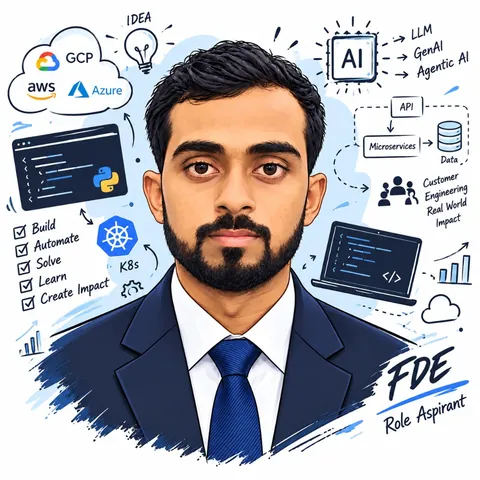
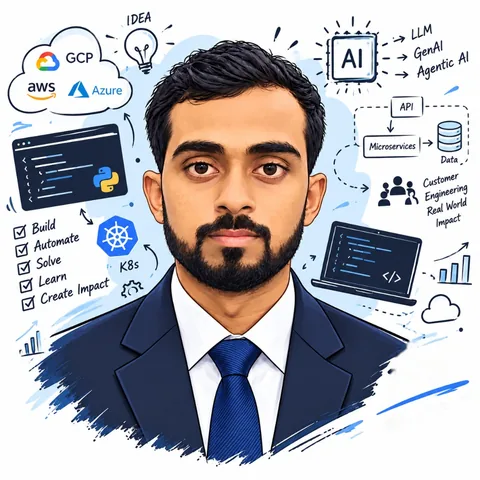
Remove 'FDE Role Aspirant' lettering from hero portrait and OG card
The phrase was baked into the illustration; inpainted only the lettering,
regenerated the 480/720 WebP/JPG variants, patched the OG card, and
cache-busted the image URLs with ?v=2.

Changed region(s): [[0.7812, 0.6875, 0.9688, 0.9062]]

diff --git a/index.html b/index.html
@@ -21,7 +21,7 @@
 <meta property="og:url" content="https://iarsingh.github.io/">
 <meta property="og:title" content="Akhilesh Ranjan Singh | Cloud &amp; Platform Engineer | FDE">
 <meta property="og:description" content="Cloud, Platform &amp; DevSecOps Engineer with 7+ years across GCP, Azure, Kubernetes, Terraform, CI/CD and SRE, exploring Forward Deployed Engineering and AI Platforms.">
-<meta property="og:image" content="https://iarsingh.github.io/og-card.jpg">
+<meta property="og:image" content="https://iarsingh.github.io/og-card.jpg?v=2">
 <meta property="og:image:width" content="1200">
 <meta property="og:image:height" content="630">
 <meta property="og:image:alt" content="Akhilesh Ranjan Singh — Cloud &amp; Platform Engineer exploring Forward Deployed Engineering &amp; AI Platforms">
@@ -30,7 +30,7 @@
 <meta name="twitter:card" content="summary_large_image">
 <meta name="twitter:title" content="Akhilesh Ranjan Singh | Cloud &amp; Platform Engineer | FDE">
 <meta name="twitter:description" content="Cloud, Platform &amp; DevSecOps Engineer with 7+ years across GCP, Azure, Kubernetes, Terraform, CI/CD and SRE, exploring Forward Deployed Engineering and AI Platforms.">
-<meta name="twitter:image" content="https://iarsingh.github.io/og-card.jpg">
+<meta name="twitter:image" content="https://iarsingh.github.io/og-card.jpg?v=2">
 
 <script type="application/ld+json">
 {
@@ -70,7 +70,7 @@
 <link rel="preload" as="style" href="https://fonts.googleapis.com/css2?family=Outfit:wght@400;500;600;700&display=swap">
 <link rel="stylesheet" href="https://fonts.googleapis.com/css2?family=Outfit:wght@400;500;600;700&display=swap" media="print" onload="this.media='all'">
 <noscript><link rel="stylesheet" href="https://fonts.googleapis.com/css2?family=Outfit:wght@400;500;600;700&display=swap"></noscript>
-<link rel="preload" as="image" href="img/hero-portrait-480.webp" type="image/webp" imagesrcset="img/hero-portrait-480.webp 480w, img/hero-portrait-720.webp 720w" imagesizes="(max-width: 900px) 280px, 400px">
+<link rel="preload" as="image" href="img/hero-portrait-480.webp?v=2" type="image/webp" imagesrcset="img/hero-portrait-480.webp?v=2 480w, img/hero-portrait-720.webp?v=2 720w" imagesizes="(max-width: 900px) 280px, 400px">
 <link rel="stylesheet" href="styles.css?v=20260929bupa1">
 </head>
 <body>
@@ -160,8 +160,8 @@
           <circle cx="50" cy="50" r="48" />
         </svg>
         <picture>
-          <source type="image/webp" srcset="img/hero-portrait-480.webp 480w, img/hero-portrait-720.webp 720w" sizes="(max-width: 900px) 280px, 400px">
-          <img class="portrait" src="img/hero-portrait-720.jpg" width="400" height="400" alt="Illustrated portrait of Akhilesh Ranjan Singh surrounded by cloud, Kubernetes and AI sketches" fetchpriority="high" decoding="async">
+          <source type="image/webp" srcset="img/hero-portrait-480.webp?v=2 480w, img/hero-portrait-720.webp?v=2 720w" sizes="(max-width: 900px) 280px, 400px">
+          <img class="portrait" src="img/hero-portrait-720.jpg?v=2" width="400" height="400" alt="Illustrated portrait of Akhilesh Ranjan Singh surrounded by cloud, Kubernetes and AI sketches" fetchpriority="high" decoding="async">
         </picture>
         <p class="terminal-chip" aria-hidden="true"><span>$</span> kubectl rollout status deploy/ship-it</p>
       </div>
